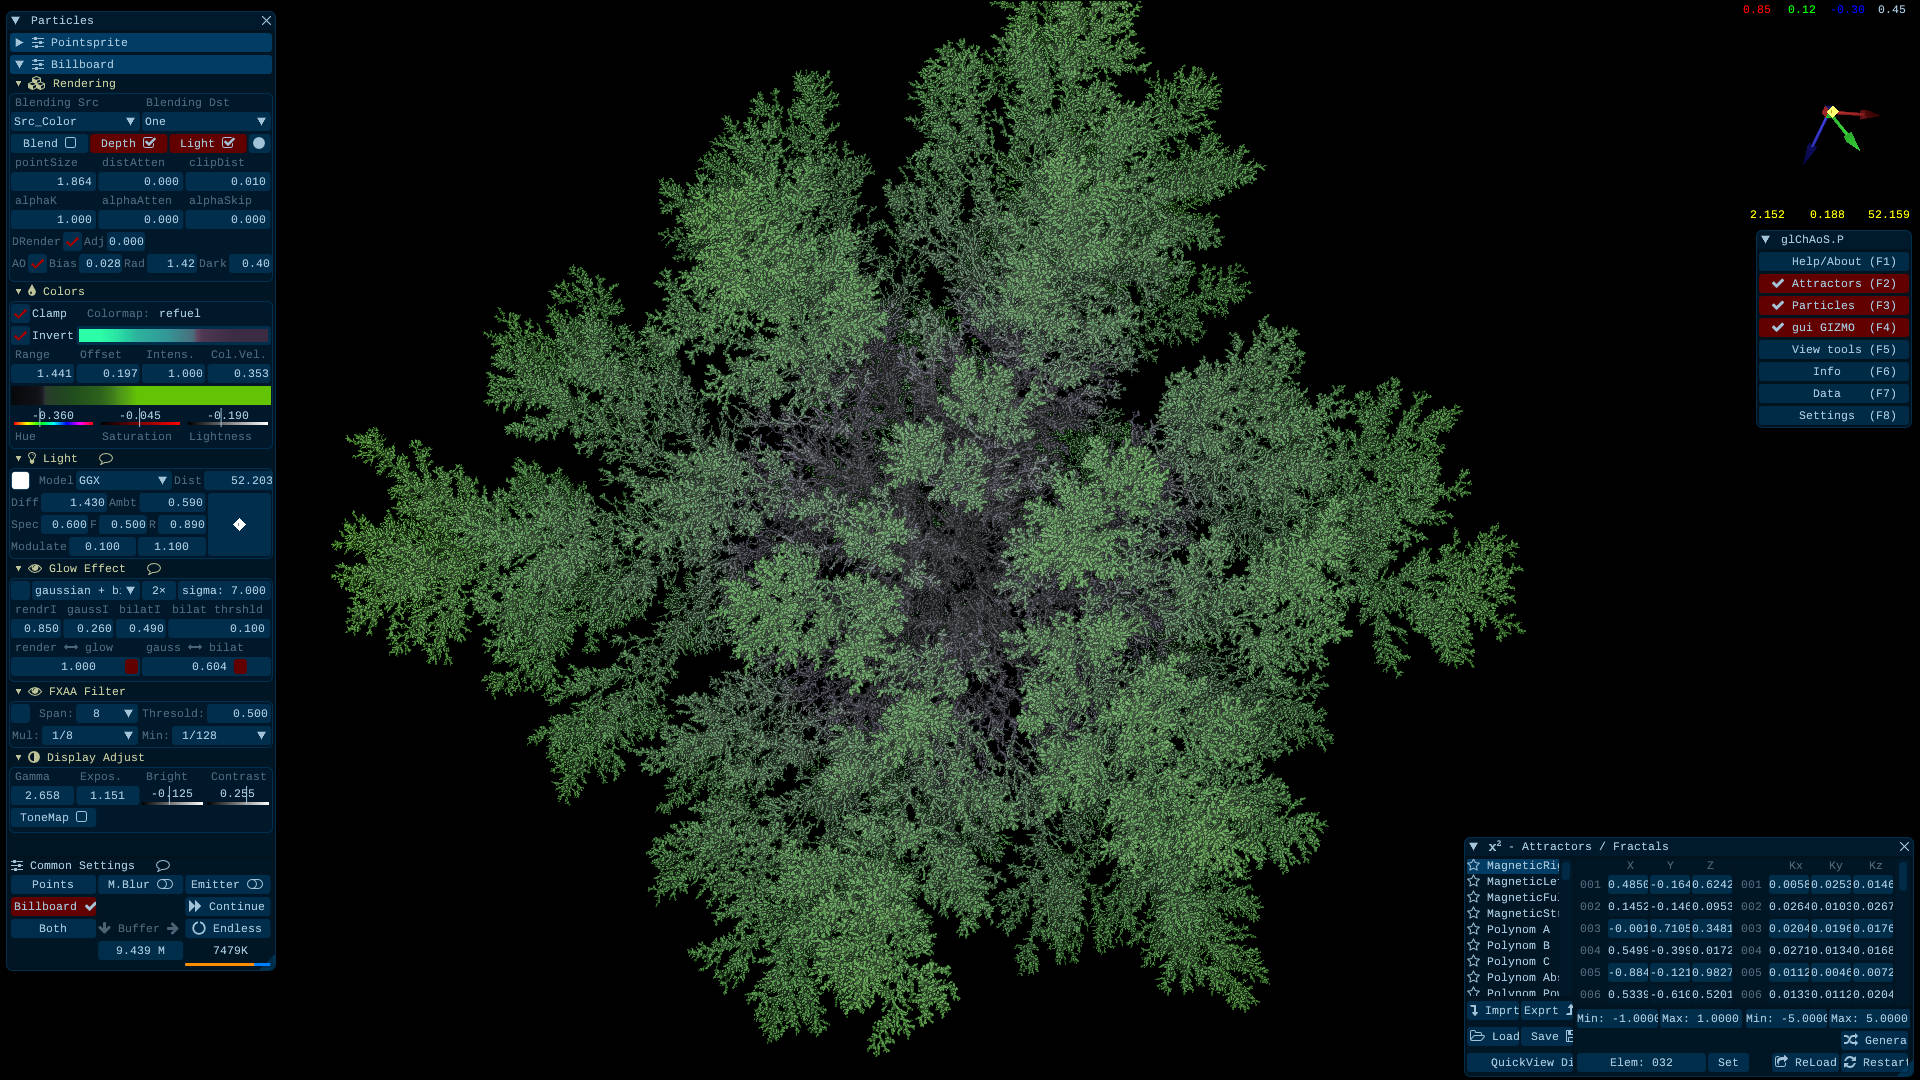
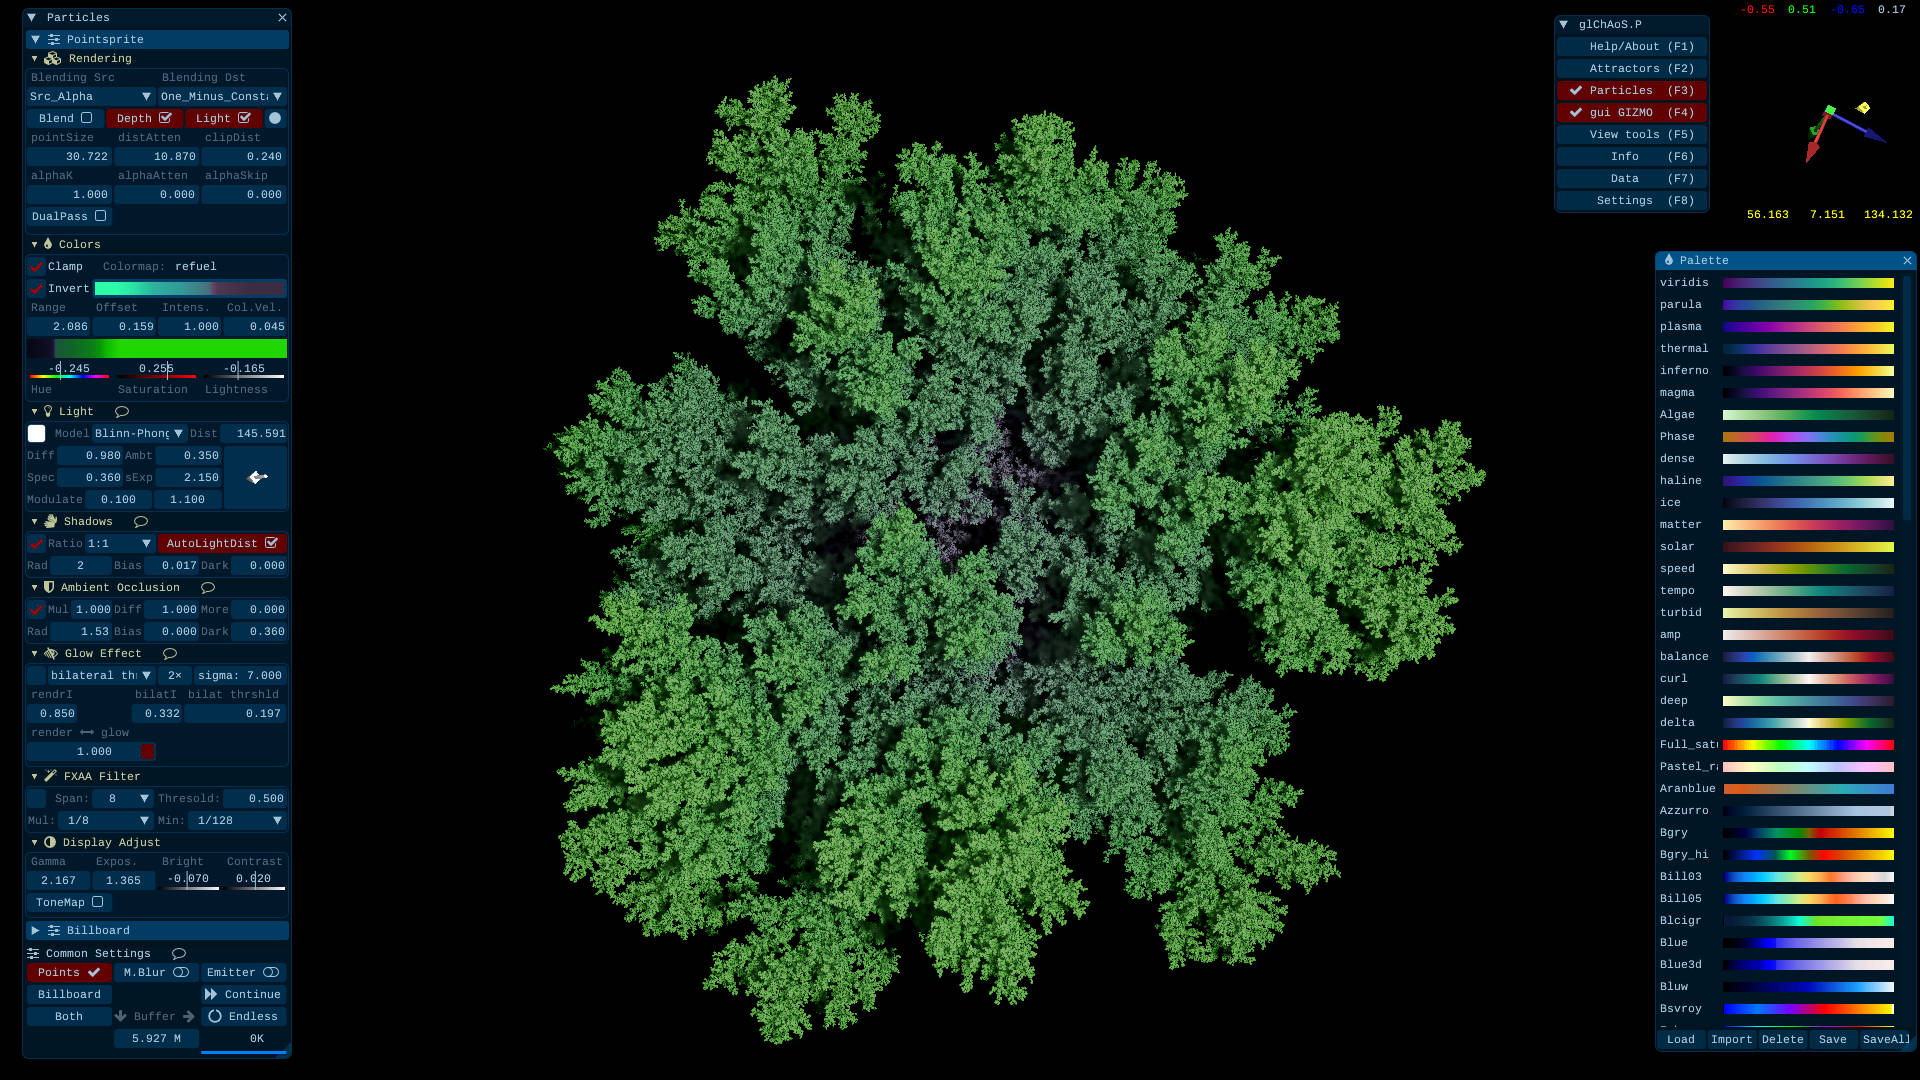
1.3 Beta - Shadows, AmbientOcclusion, DualPass Rendering

diff --git a/readme.md b/readme.md
@@ -1,4 +1,4 @@
-# [**glChAoS.P / wglChAoS.P - Ver 1.2**](https://michelemorrone.eu/glchaosp)  ==> 1.3 (WiP)
+# [**glChAoS.P / wglChAoS.P - Ver 1.2**](https://michelemorrone.eu/glchaosp)  ==> 1.3 (beta)
 
 [**glChAoS.P**](https://michelemorrone.eu/glchaosp) / [**glChAoSP**](https://michelemorrone.eu/glchaosp): Open**gl** **Ch**aotic **A**ttractors **o**f **S**light (**dot**) **P**articles
 A real time 3D strange attractor scout... and hypercompex fractals (new!) 
